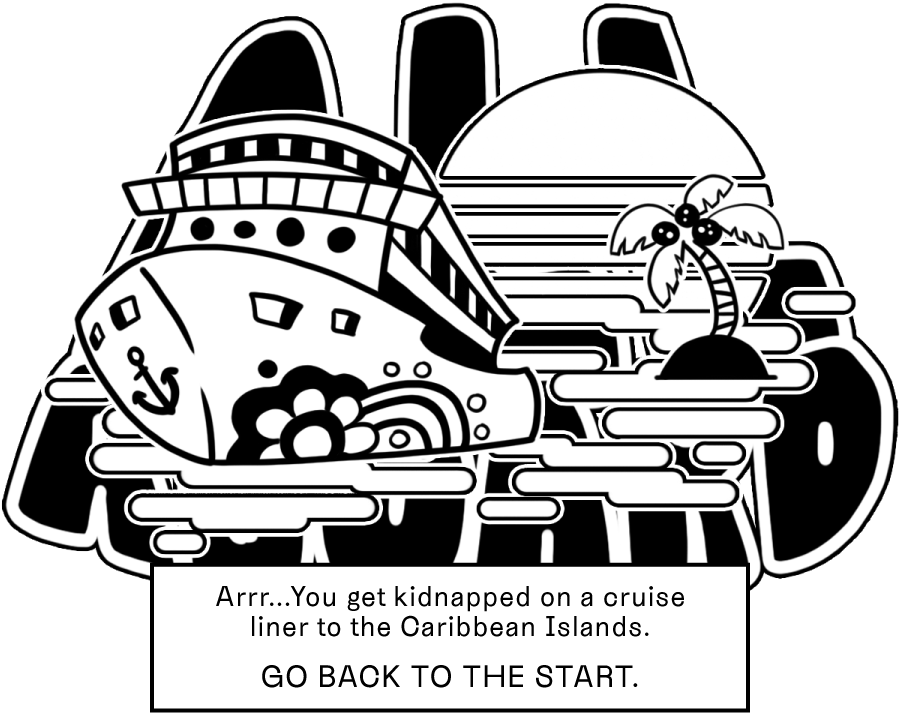
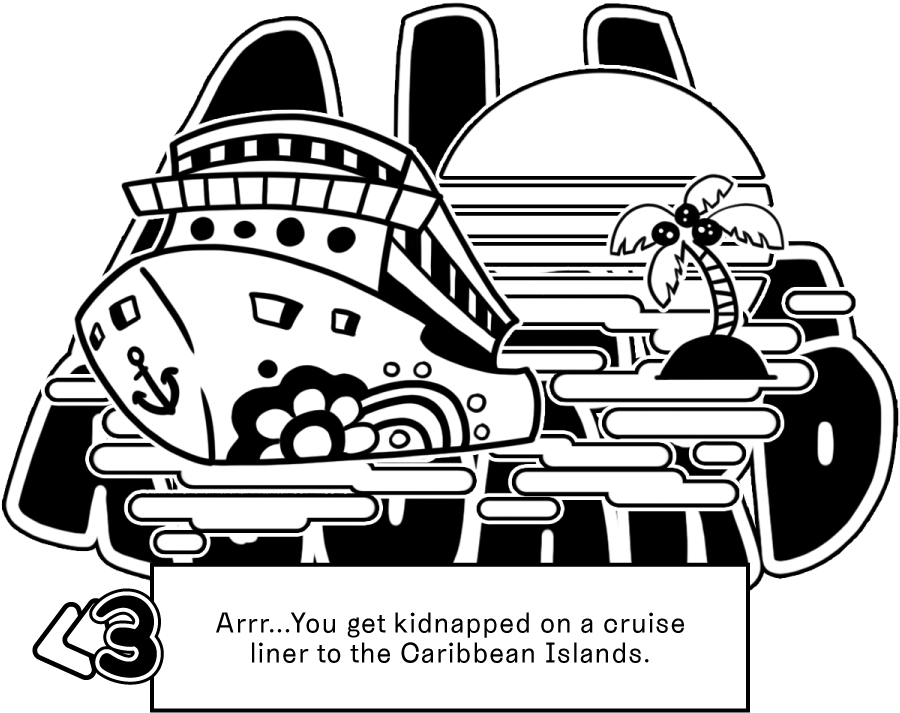
Change image E3 cruise

Changed region(s): [[0.2178, 0.8331, 0.7778, 0.9874], [0.0311, 0.8022, 0.1867, 0.9874]]

diff --git a/src/components/Event.js b/src/components/Event.js
@@ -16,8 +16,8 @@ export default class Event extends Component {
     `
     const ButtonContinue = styled('img')`
       display: ${this.props.display};
-      width: 20%;
-      height: 20%;
+      width: 25%;
+      height: 25%;
       transform: rotate(12deg);
       position: relative;
       top: 60%;
